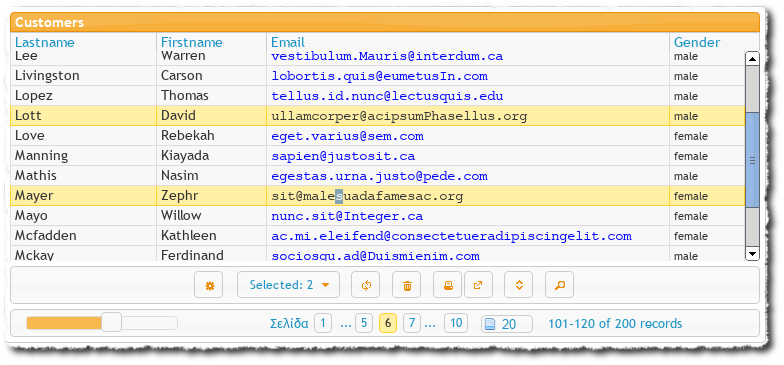
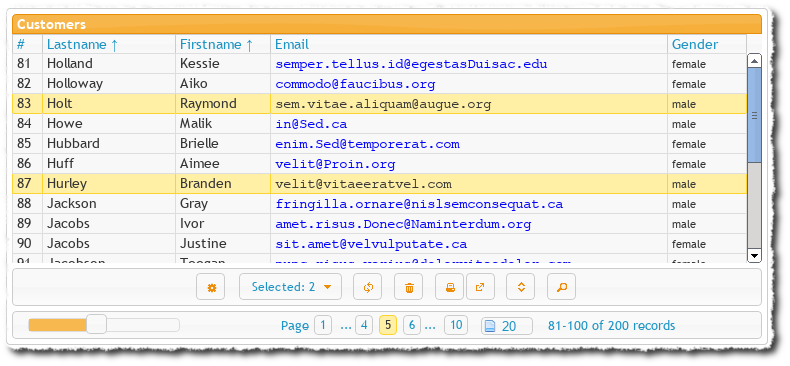
Update docs

diff --git a/docs/index.html b/docs/index.html
@@ -84,12 +84,12 @@
     <p>Tested with jquery >= 1.8.2 and >= jquery-ui 1.8.23 (recommended jquery-ui >= 1.9)
 
     <p>UPCOMING Release 1.00 (?? Nov 2012) Download <a
-            href="https://github.com/pontikis/jui_datagrid/zipball/v1.0.0">here</a> (not yet available)
+            href="https://github.com/pontikis/jui_datagrid/zipball/v1.0.0">here</a>
 
     <p>CHANGELOG <a
             href="https://github.com/pontikis/jui_datagrid/blob/master/CHANGELOG.md">here</a>
 
-    <p>DEMO <a href="http://pontikis.net/jui_datagrid/v1.00/demo/">http://pontikis.net/jui_datagrid/v1.00/demo/</a> (not yet available)
+    <p>DEMO <a href="http://pontikis.net/jui_datagrid/v1.00/demo/">http://pontikis.net/jui_datagrid/v1.00/demo/</a>
 
     <p>
         <small>Syntax highlight using <a
@@ -238,6 +238,14 @@
         ]
     }
     </pre>
+</div>
+
+<!-- Structure ------------------------------------------------------------- -->
+<h2>Structure</h2>
+
+<div class="level2">
+    <img src="../demo/wireframe/jui_datagrid_wireframe.png"
+         title="jui_datagrid wireframe">
 </div>
 
 <!-- Options --------------------------------------------------------------- -->
@@ -625,6 +633,15 @@
          title="jui_datagrid">
 </div>
 
+<div class="level2">
+    <img src="../demo/samples/v1.00/sample_pref.png"
+         title="jui_datagrid">
+</div>
+
+<div class="level2">
+    <img src="../demo/samples/v1.00/sample_sort.png"
+         title="jui_datagrid">
+</div>
 
 <br/><br/><br/>
 

diff --git a/demo/index.html b/demo/index.html
@@ -37,14 +37,14 @@
 
     <script src="../lib/jui_pagination_1.14/jquery.jui_pagination.min.js"
             type="text/javascript"></script>
-    <script src="../lib/jui_pagination_1.14/localization/el.js"
+    <script src="../lib/jui_pagination_1.14/localization/en.js"
             type="text/javascript"></script>
 
     <script src="../lib/jui_dropdown_v1.01/jquery.jui_dropdown.min.js"
             type="text/javascript"></script>
 
     <script src="../jquery.jui_datagrid.js" type="text/javascript"></script>
-    <script src="../localization/el.js" type="text/javascript"></script>
+    <script src="../localization/en.js" type="text/javascript"></script>
 
     <script src="index.js" type="text/javascript"></script>
 

diff --git a/README.md b/README.md
@@ -24,15 +24,20 @@ License [MIT][mit]
 Documentation
 -------------
 
-http://pontikis.net/jui_datagrid/v1.00/docs/ (not yet available)
+http://pontikis.net/jui_datagrid/v1.00/docs/
 
 Demo
 ----
 
-http://pontikis.net/jui_datagrid/v1.00/demo/ (not yet available)
+http://pontikis.net/jui_datagrid/v1.00/demo/
 
 Preview:
 -------
 
 ![jui_datagrid sample][sample]
+![jui_datagrid preferences][pref]
+![jui_datagrid sorting][sorting]
+
 [sample]: https://raw.github.com/pontikis/jui_datagrid/dev/demo/samples/v1.00/sample.png "jui_datagrid"
+[pref]: https://raw.github.com/pontikis/jui_datagrid/dev/demo/samples/v1.00/sample_pref.png "jui_datagrid preferences"
+[sorting]: https://raw.github.com/pontikis/jui_datagrid/dev/demo/samples/v1.00/sample_sort.png "jui_datagrid sorting"
